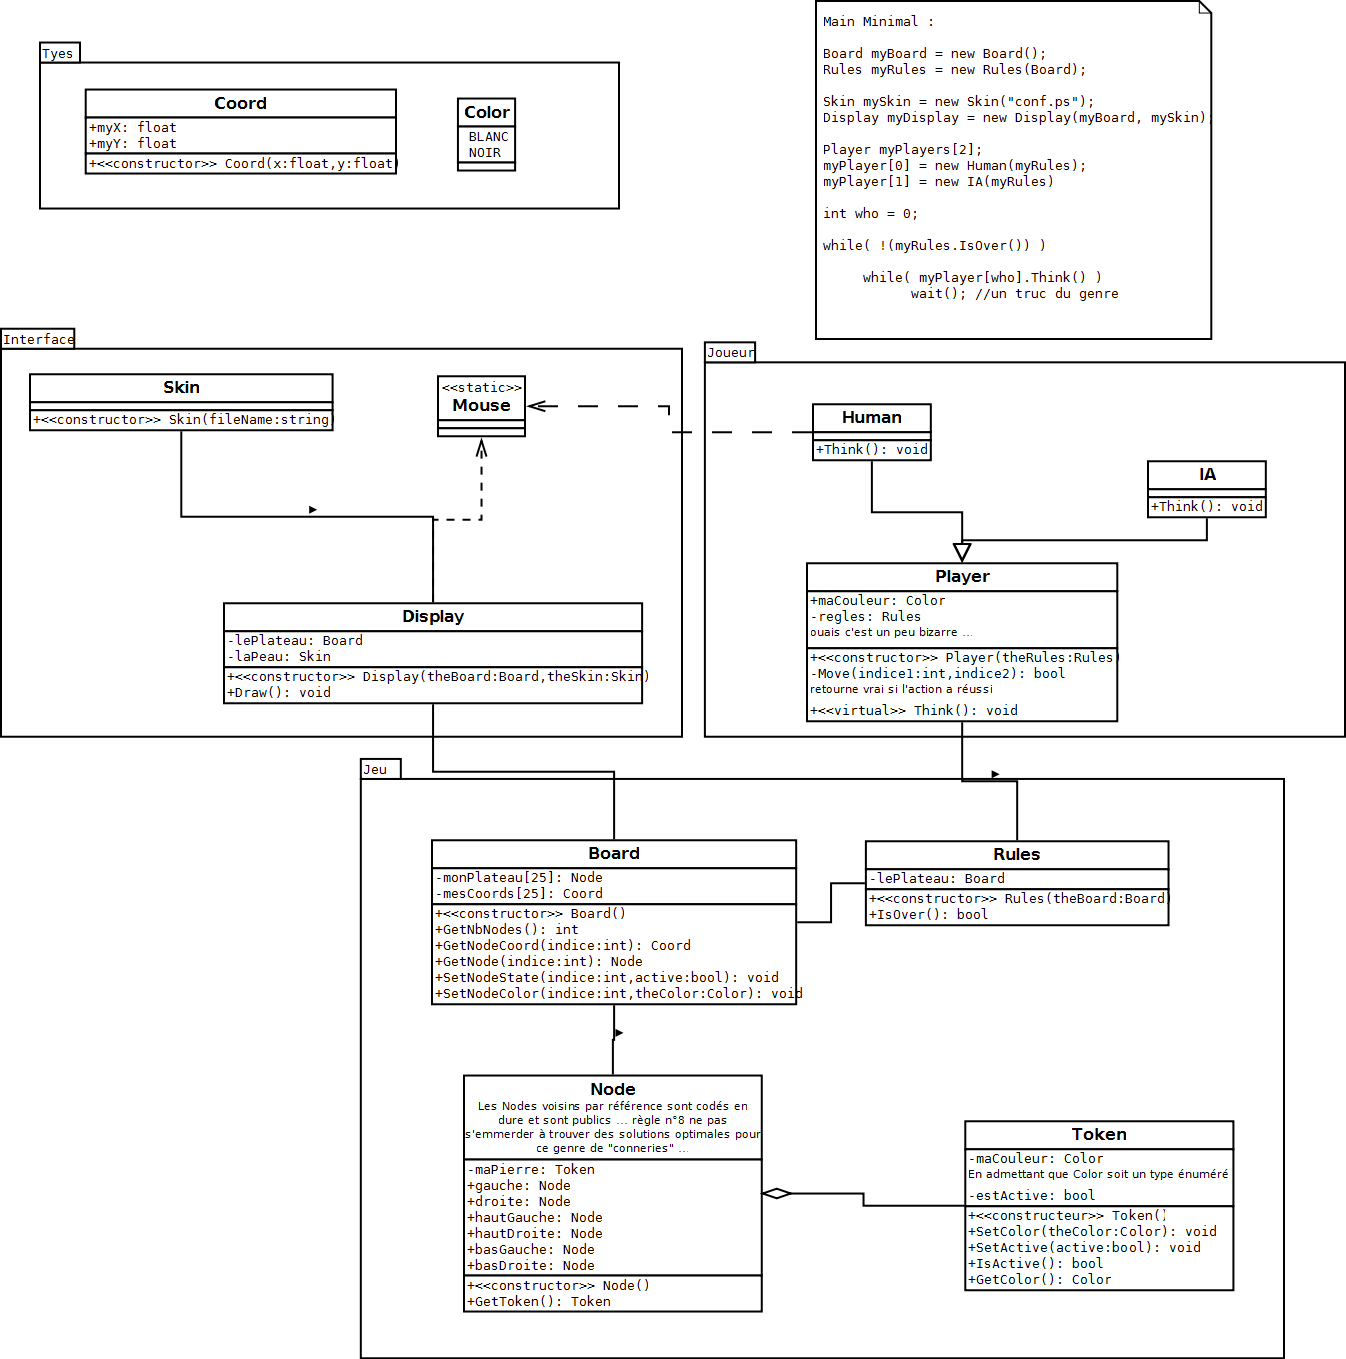
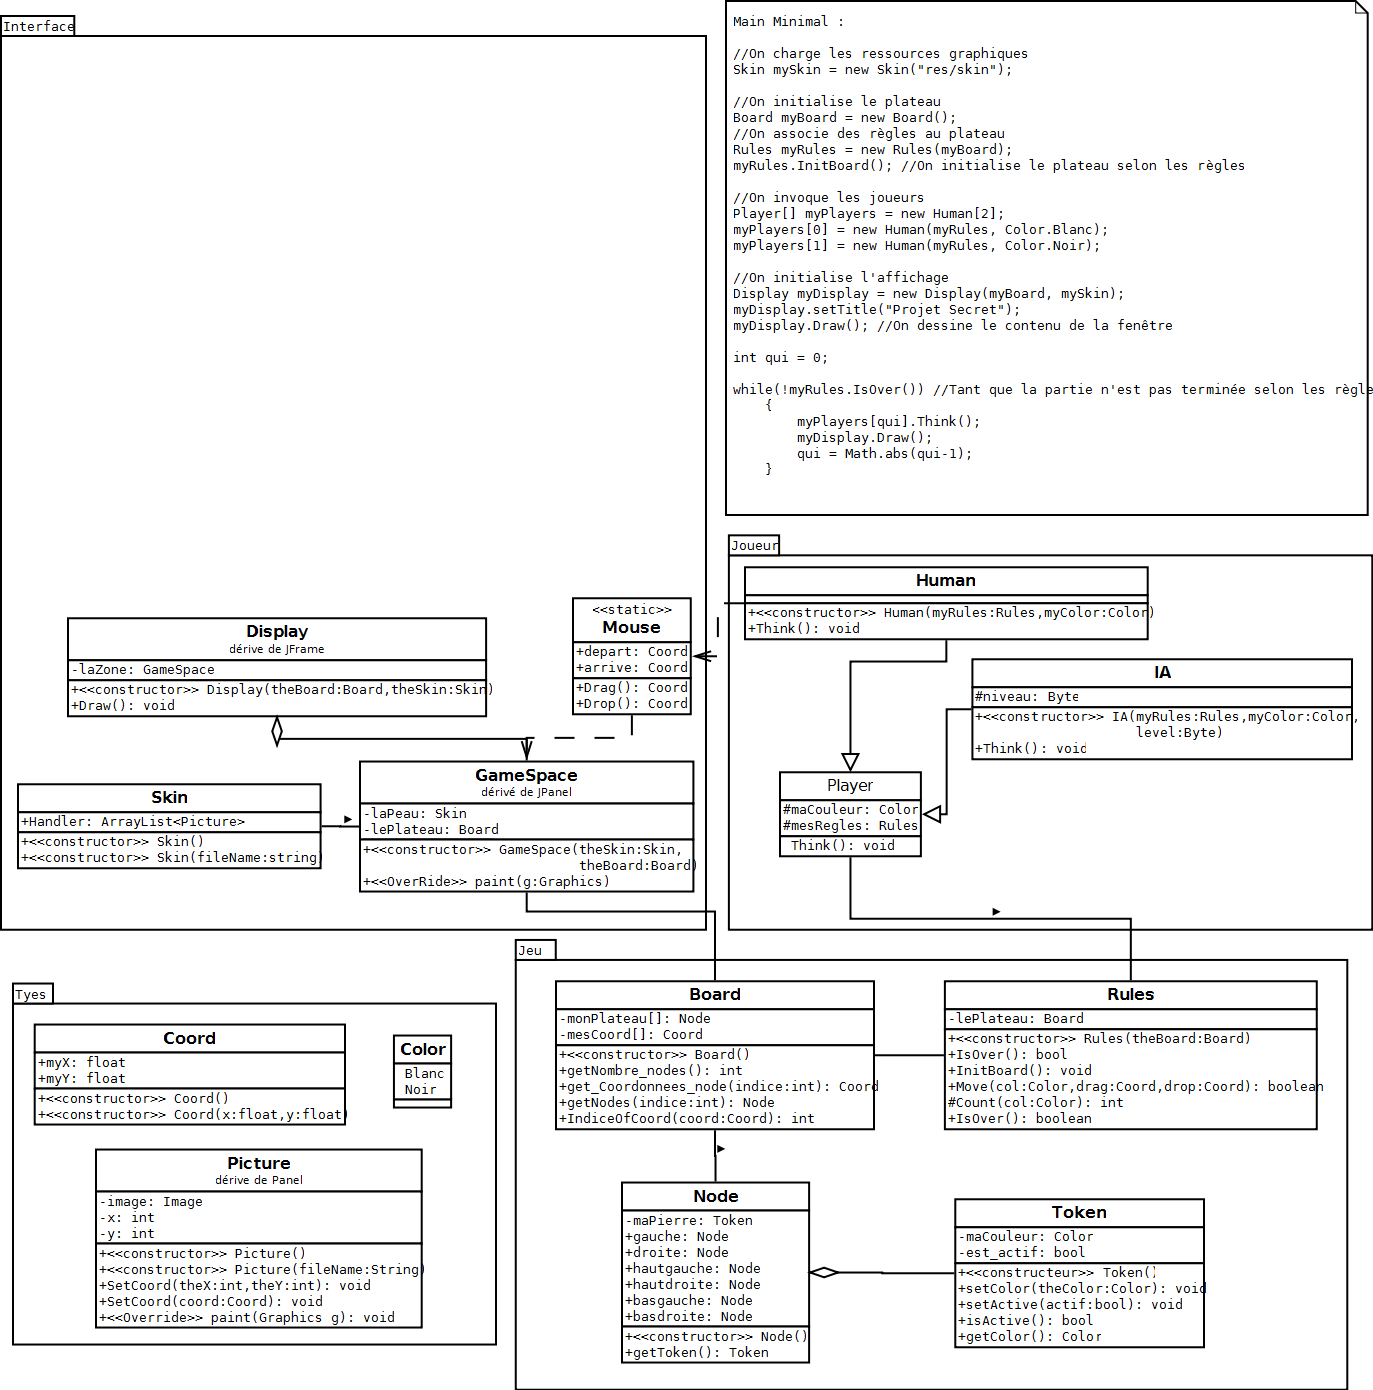
Nettoyage de Display Mise à jour de l'UML

diff --git a/src/projetsecret/Display.java b/src/projetsecret/Display.java
@@ -9,22 +9,17 @@ import javax.swing.JFrame;
  */
 public class Display extends JFrame{
 
-    protected Board lePlateau;
-    protected Skin laPeau;
-
     private GameSpace laZone;
 
     public Display(Board theBoard, Skin theSkin)
     {
         this.addWindowListener(new WindowAdapter()
            {@Override
-public void windowClosing(WindowEvent e)
+            public void windowClosing(WindowEvent e)
                   {System.exit(0);
                   }
              } ) ; 
-        this.lePlateau = theBoard;
-        this.laPeau = theSkin;
-        this.laZone = new GameSpace(this.laPeau, this.lePlateau);
+        this.laZone = new GameSpace(theSkin, theBoard);
 
         this.setSize(800,600);
         this.setDefaultCloseOperation(DISPOSE_ON_CLOSE);
